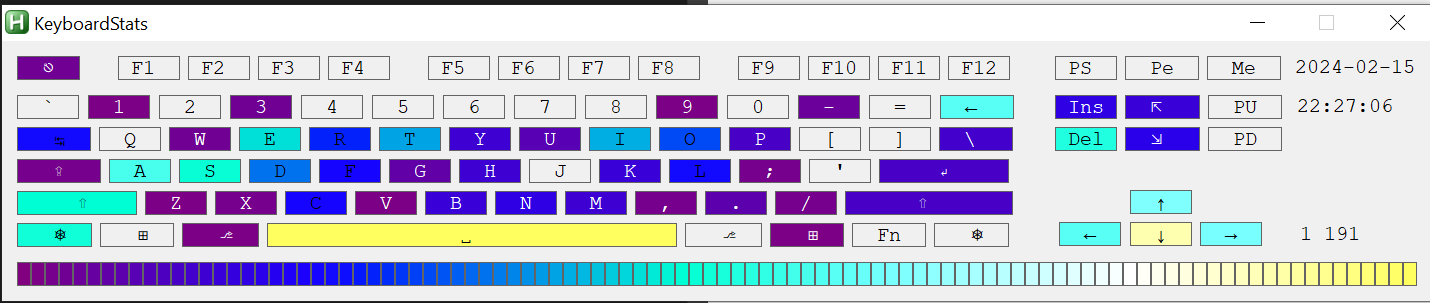
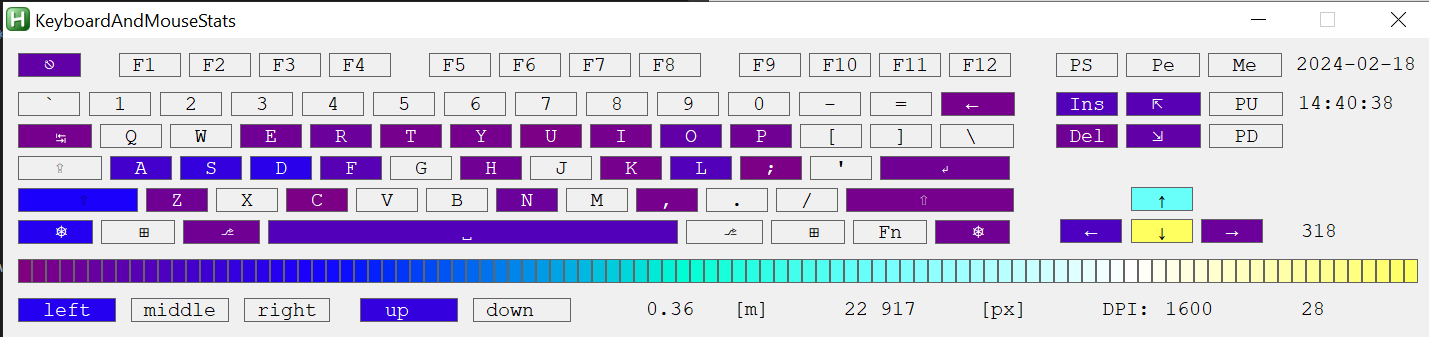
Documentation update.

diff --git a/README.md b/README.md
@@ -1,13 +1,13 @@
-# KeyboardStats.ahk
+# KeyboardAndMouseStats.ahk
 
-Simple monitoring of pressed keys with heat map displayed in a form of GUI.
-Microsoft Windows only.
+Simple monitoring of pressed keyboard keys and mouse clicks with heat map displayed in a form of GUI.
+Valid for Microsoft Windows only.
 Statistics is saved in a log file every hour since the application starts.
 Written in [AutoHotkey][] language.
 
 ## How to run it
 
-You need to install at first the [AutoHotkey][] language interpreter (open source, GNU GPL license). Next copy the files: **KeyboardStats.ahk** and **Lib** folder to any place in your hard disk. Click / press enter on **KeyboardStats.ahk**.
+You need to install at first the [AutoHotkey][] language interpreter (open source, GNU GPL license). Next copy the files: **KeyboardAndMouseStats.ahk** and **Lib** folder to any place in your hard disk. Click / press enter on **KeyboardAndMouseStats.ahk**.
 
 ## Screen shots
 
@@ -22,7 +22,7 @@ After clicking of a key with left mouse button the tooltip is displayed for 5 s:
 
 ## Activation
 
-Click in system tray, next in icon of **KeyboardStats**, left mouse click. The GUI will be displayed in the front of your default monitor.
+Click in system tray, next in icon of **KeyboardAndMouseStats**, left mouse click. The GUI will be displayed in the front of your default monitor.
 
 Left mouse click brings tiny menu:
 ![GUI 1](/pictures/Tray01.png)
@@ -33,7 +33,8 @@ Hotkeys are active only when GUI window is active.
 
 | hotkey | meaning | comment |
 | :---         |     :---      |          ---: |
-| Control      | to display individual values for pressed keys     | left or right    |
+| Control      | to display individual values for pressed keys     | left or right, press and hold    |
+| mouse click  | to update values within GUI | left or middle or right, press and hold |
 | F1 or ?      | to display this info       |         |
 | F2           | to copy current results to Clipboard | | 	
 | F3			| to copy heatmap scale to Clipboard | |
